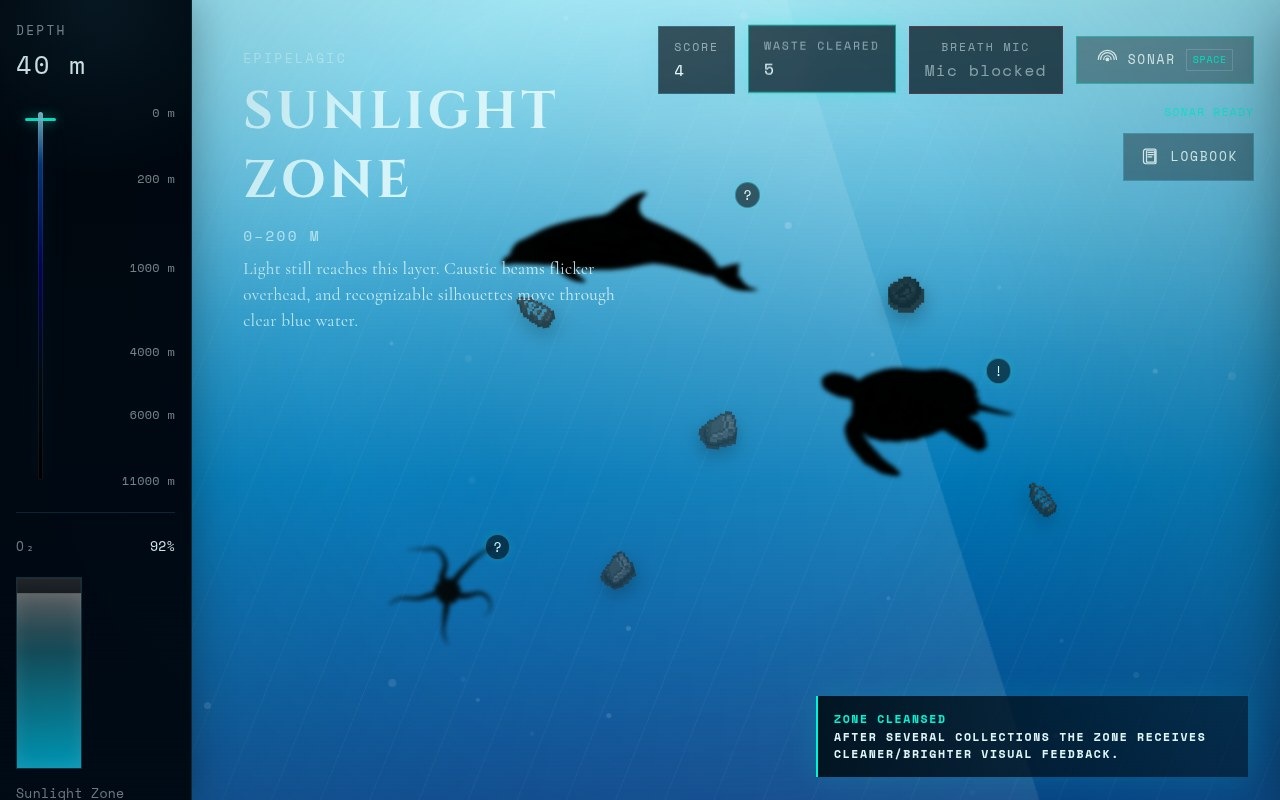
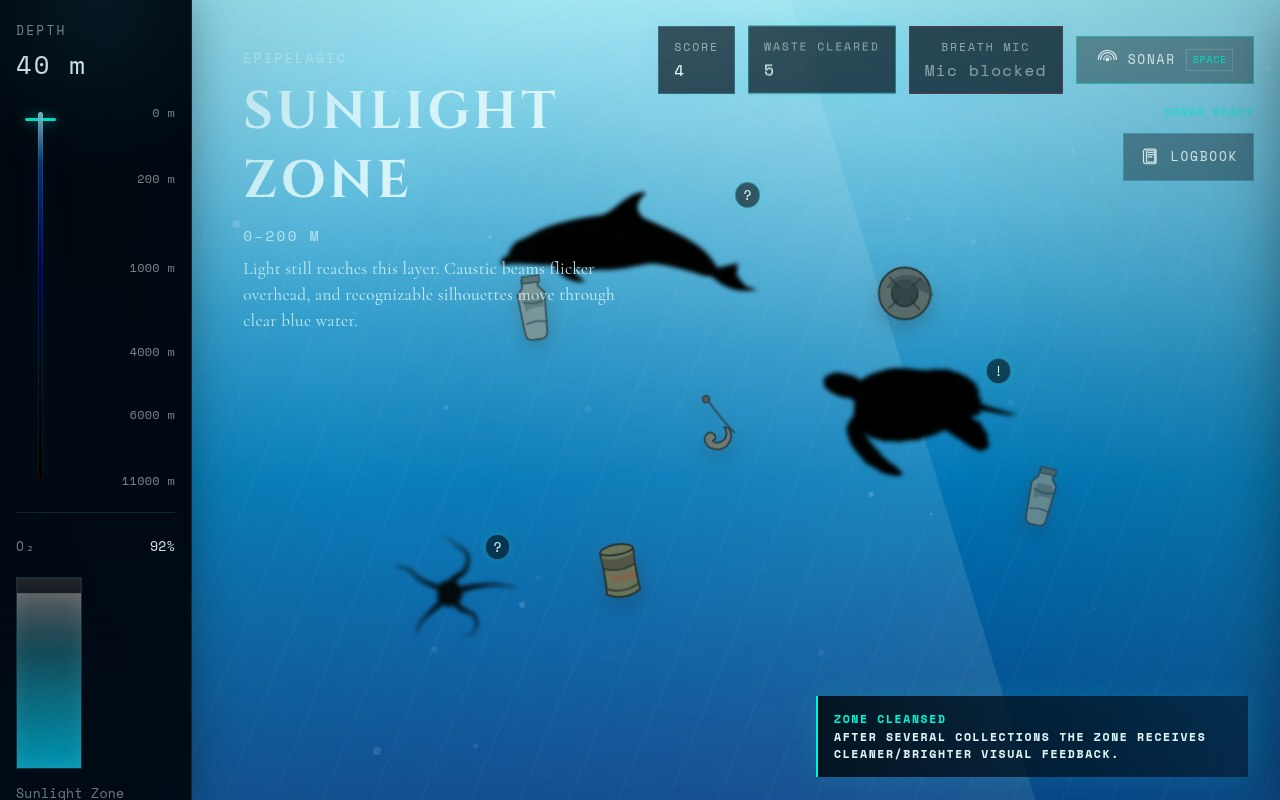
fix: replace broken pollution sprites

diff --git a/app.js b/app.js
@@ -10,7 +10,7 @@ const zoneData = [
       "Light still reaches this layer. Caustic beams flicker overhead, and recognizable silhouettes move through clear blue water.",
     particleType: "surface",
     particleCount: 34,
-    pollutionTypes: ["bottle", "takeout-box", "tire", "line"],
+    pollutionTypes: ["bottle", "bottle", "tire", "gear"],
     oxygenDrainMultiplier: 0.72,
   },
   {
@@ -24,7 +24,7 @@ const zoneData = [
       "The glow from above begins to fail. Bioluminescent sparks appear, and each reveal feels like turning on a light in the dark.",
     particleType: "bio",
     particleCount: 36,
-    pollutionTypes: ["gear", "tire", "line"],
+    pollutionTypes: ["gear", "tire", "bottle"],
     oxygenDrainMultiplier: 0.94,
   },
   {
@@ -52,7 +52,7 @@ const zoneData = [
       "Marine snow drifts through a pressure-crushed quiet. The scene is almost empty until a hidden body turns and catches the dark.",
     particleType: "snow",
     particleCount: 54,
-    pollutionTypes: ["debris", "microplastics"],
+    pollutionTypes: ["drum", "microplastics"],
     oxygenDrainMultiplier: 1.42,
   },
   {
@@ -66,7 +66,7 @@ const zoneData = [
       "The trench is a void. The instrument stack strains, the oxygen alarm never settles, and life appears only as a ghostly interruption of the black.",
     particleType: "snow",
     particleCount: 32,
-    pollutionTypes: ["container", "microplastics"],
+    pollutionTypes: ["drum", "microplastics"],
     oxygenDrainMultiplier: 1.86,
   },
 ];
@@ -343,36 +343,23 @@ const creatureData = [
 
 const pollutionPalette = {
   bottle: { main: "#8d9188", shade: "#5d625d", line: "#343a36", alpha: 0.76 },
-  "takeout-box": { main: "#878a80", shade: "#5b5d55", line: "#30332e", alpha: 0.76 },
-  tire: { main: "#383b35", shade: "#20241f", line: "#111410", alpha: 0.78 },
-  line: { main: "#726d63", shade: "#4c4a45", line: "#2e302e", alpha: 0.72 },
-  gear: { main: "#6d7069", shade: "#464941", line: "#252924", alpha: 0.78 },
-  drum: { main: "#6f7047", shade: "#4c3f2d", line: "#27281d", rust: "#8a4f34", alpha: 0.82 },
-  microplastics: { main: "#898b82", shade: "#63665e", line: "#3f443d", alpha: 0.68 },
-  debris: { main: "#676759", shade: "#48483e", line: "#262820", rust: "#76523a", alpha: 0.8 },
-  container: { main: "#5e5f4c", shade: "#3f4034", line: "#20231d", rust: "#7a4632", alpha: 0.76 },
-};
-
-const pollutionSpritePaths = {
-  bottle: "assets/pollution/bottle2idle.png",
-  "takeout-box": "assets/pollution/boxidle.png",
-  tire: "assets/pollution/tireidle.png",
-  gear: "assets/pollution/fishing-hook.png",
+  tire: { main: "#5d625b", shade: "#373d38", line: "#202620", alpha: 0.88 },
+  gear: { main: "#7a7768", shade: "#565247", line: "#2e302b", alpha: 0.88 },
+  drum: { main: "#76734d", shade: "#4e422f", line: "#28291f", rust: "#9a5b3a", alpha: 0.9 },
+  microplastics: { main: "#9fa39a", shade: "#73786f", line: "#4a5048", alpha: 0.86 },
 };
 
 const pollutionZoneSettings = {
-  sunlight: { initial: 8, respawn: 360, duration: [8.5, 12.5], size: [3.2, 5.0], drift: [-10, 14] },
-  twilight: { initial: 5, respawn: 680, duration: [12.5, 17.5], size: [3.4, 5.4], drift: [-14, 10] },
-  midnight: { initial: 3, respawn: 1200, duration: [17.5, 24], size: [3.0, 4.8], drift: [-8, 8] },
-  abyssal: { initial: 2, respawn: 1800, duration: [24, 32], size: [2.6, 4.4], drift: [-5, 5] },
-  hadal: { initial: 2, respawn: 2400, duration: [30, 40], size: [2.4, 4.2], drift: [-3, 3] },
+  sunlight: { initial: 8, respawn: 420, duration: [10, 14], size: [3.8, 5.4], drift: [-8, 10] },
+  twilight: { initial: 5, respawn: 760, duration: [14, 19], size: [3.6, 5.0], drift: [-9, 8] },
+  midnight: { initial: 3, respawn: 1300, duration: [19, 26], size: [3.2, 4.6], drift: [-5, 5] },
+  abyssal: { initial: 2, respawn: 1900, duration: [26, 34], size: [2.9, 4.2], drift: [-3, 3] },
+  hadal: { initial: 2, respawn: 2500, duration: [32, 42], size: [2.8, 4.0], drift: [-2, 2] },
 };
 
 const pollutionTypeSettings = {
-  bottle: { sizeBoost: 1.05 },
-  "takeout-box": { sizeBoost: 1.08 },
-  tire: { sizeBoost: 1.02 },
-  line: { sizeBoost: 1.1 },
+  bottle: { sizeBoost: 0.92 },
+  tire: { sizeBoost: 1.05 },
   gear: { sizeBoost: 0.95 },
   drum: { sizeBoost: 1.1 },
   microplastics: { sizeBoost: 0.72 },
@@ -2050,10 +2037,6 @@ function createParticles(zoneEl, zone) {
 }
 
 function pollutionAsset(type) {
-  const spritePath = pollutionSpritePaths[type];
-  if (spritePath) {
-    return `<span class="pollution-item__sprite" style="--sprite-url:url('${spritePath}')" aria-hidden="true"></span>`;
-  }
   return pollutionSvg(type);
 }
 
@@ -2067,13 +2050,11 @@ function pollutionSvg(type) {
     `--trash-alpha:${color.alpha}`,
   ].join(";");
   const svgs = {
-    bottle: `<svg class="trash-illustration trash-bottle" viewBox="0 0 64 64" style="${palette}" aria-hidden="true"><path class="trash-fill" d="M26 6h12v7l5 6-2 35c-.2 3.6-2.7 5.8-6.2 5.8h-7.4c-3.5 0-5.9-2.2-6.1-5.8L19 19l5-6V6h2Z"/><path class="trash-shade" d="M27 16h11.5l3.1 4.4-.5 8.8c-5.9-1.2-11.1-.4-15.8 2.5l-.7-11.1L27 16Z"/><path class="trash-cap" d="M25 3.8h14v5.4H25z"/><path class="trash-line" d="M23.5 24.5c6.7 2.8 12.7 2.8 18.1.1M24.1 43.8c5.2-1.8 10.6-1.9 16.4-.2"/></svg>`,
-    line: `<svg class="trash-illustration trash-line-tangle" viewBox="0 0 64 64" style="${palette}" aria-hidden="true"><path class="trash-rope" d="M8.5 18.5c11.8 8.8 23.5 7.8 46.8-1.8M10.2 49.7c11.2-18.7 31.5-18.1 44.7.8M8.4 34.5c18.6-13.5 30.2 17.9 47.8-2.9M17 15c8 9.5 6.7 22.9-4.3 34.2"/><circle class="trash-knot" cx="17" cy="18" r="3.3"/><circle class="trash-knot" cx="49" cy="49" r="3.1"/></svg>`,
-    gear: `<svg class="trash-illustration trash-gear" viewBox="0 0 64 64" style="${palette}" aria-hidden="true"><path class="trash-fill" d="M30.2 7.5h4.3l3.6 7 5.8 1.8 6.7-3 4.5 5-3.4 6.6 2 5.6 6.7 3.7v5.5l-6.9 3.2-2.3 5.8 3.2 6.7-4.8 4.5-6.5-3.5-6 2.2-3.4 6.8h-4.4l-3.3-6.9-5.8-2-6.7 3.1-4.6-5 3.4-6.4-2.1-5.9-6.6-3.5v-5.5l6.7-3.4 2-5.8-3.1-6.6 4.9-4.6 6.3 3.3 6.2-2 3.5-6.7Z"/><circle class="trash-hole" cx="32" cy="34" r="8.2"/><path class="trash-line" d="M32 19v6M32 43v6M17 34h6M41 34h6"/></svg>`,
+    bottle: `<svg class="trash-illustration trash-bottle" viewBox="0 0 64 64" style="${palette}" aria-hidden="true"><path class="trash-fill" d="M27 6h11v7l5 6-2.2 34c-.3 3.9-2.7 6-6.3 6h-6.7c-3.6 0-6-2.1-6.3-6L19.3 19l5-6V6H27Z"/><path class="trash-shade" d="M26.4 19h12.4l2.2 4.2-.5 8.3c-5.9-1.3-11.3-.4-16 2.5l-.6-10.7 2.5-4.3Z"/><path class="trash-cap" d="M25 3.5h15v5.8H25z"/><path class="trash-line" d="M23.5 25.5c6.9 2.7 13 2.7 18.4 0M24.2 44.5c5.3-1.7 10.9-1.8 16.5-.1"/></svg>`,
+    tire: `<svg class="trash-illustration trash-tire" viewBox="0 0 64 64" style="${palette}" aria-hidden="true"><circle class="trash-fill" cx="32" cy="32" r="22"/><circle class="trash-hole" cx="32" cy="32" r="11"/><path class="trash-shade" d="M16 28c4.8-9.8 14.2-14 26.1-10.7 8.2 2.3 13.2 8.8 14 16.6-10-6.5-23.7-8.2-40.1-5.9Z"/><path class="trash-line" d="M19 19 27 27M45 19l-8 8M19 45l8-8M45 45l-8-8"/></svg>`,
+    gear: `<svg class="trash-illustration trash-hook" viewBox="0 0 64 64" style="${palette}" aria-hidden="true"><path class="trash-rope" d="M19 8c8.8 9.5 18.3 18.5 28.8 26.7"/><path class="trash-fill" d="M42.5 31.5c3.8 5 4.1 10.7.7 15.7-4.4 6.5-14.8 7-19.5.9-2.4-3.2-2.2-7.5.7-9.3 2.6-1.7 6-.8 7.1 2 .7 1.7-.4 3.5-2 4.1 2.4 2.4 7.7 1.5 10.2-2.2 2.2-3.4 1.7-7.8-1.4-11.5l4.2.3Z"/><circle class="trash-knot" cx="18.2" cy="8.4" r="3.2"/></svg>`,
     drum: `<svg class="trash-illustration trash-drum" viewBox="0 0 64 64" style="${palette}" aria-hidden="true"><ellipse class="trash-fill" cx="32" cy="13.5" rx="15" ry="6"/><path class="trash-fill" d="M17 13.5c1.1 7.9 1.1 28.9 0 36.2 8 6 22 6 30 0-1.1-7.3-1.1-28.3 0-36.2-7.9 4.2-22.1 4.2-30 0Z"/><path class="trash-shade" d="M18.3 17.7c7.7 3.4 19.7 3.3 27.5-.2l.4 9.7c-7.6 4.5-19.1 4.4-28.3.2l.4-9.7Z"/><path class="trash-rust" d="M22.5 33.5c8.7 1.8 14.8 1.6 22.4-.5l.3 5.8c-7.8 2.2-14.7 2.3-23.2.4l.5-5.7Z"/><path class="trash-line" d="M18.4 27.2c8.9 3.9 18.2 3.8 27.3 0M18.2 45.3c8.5 4.2 18.1 4.2 27.7 0"/></svg>`,
-    microplastics: `<svg class="trash-illustration trash-microplastics" viewBox="0 0 64 64" style="${palette}" aria-hidden="true"><circle class="trash-dot" cx="15" cy="18" r="2.8"/><circle class="trash-dot shade" cx="28" cy="12" r="1.7"/><circle class="trash-dot" cx="45" cy="19" r="2.4"/><circle class="trash-dot shade" cx="53" cy="32" r="1.8"/><circle class="trash-dot" cx="35" cy="34" r="2.6"/><circle class="trash-dot shade" cx="19" cy="43" r="2.1"/><circle class="trash-dot" cx="44" cy="50" r="2.9"/><circle class="trash-dot shade" cx="28" cy="54" r="1.5"/><circle class="trash-dot" cx="11" cy="32" r="1.6"/></svg>`,
-    debris: `<svg class="trash-illustration trash-debris" viewBox="0 0 64 64" style="${palette}" aria-hidden="true"><path class="trash-fill" d="M8.8 43.2 21.8 10l14 21.4 20.1-13.5-7.2 37.4H14.2l-5.4-12.1Z"/><path class="trash-shade" d="M21.9 15.4 33.6 34 16.5 49.6l-5.4-7.8 10.8-26.4Z"/><path class="trash-rust" d="m35.6 32 12.8-8.5-2.8 14.3c-4.6.1-7.8-1.8-10-5.8Z"/><path class="trash-line" d="M22 10 14.3 55M36 31.4l11.8 23.1M20.2 43.3 50 18.9"/></svg>`,
-    container: `<svg class="trash-illustration trash-container" viewBox="0 0 64 64" style="${palette}" aria-hidden="true"><path class="trash-fill" d="M9.5 21.8c13.9-3.1 29.2-3.1 45.1.1v26.5c-14.9 3.4-29.9 3.3-45.1-.2V21.8Z"/><path class="trash-shade" d="M11.9 24.8c12.5 2.8 25.9 2.8 40.2 0v8.9c-13.8 3.9-27.3 3.9-40.2.1v-9Z"/><path class="trash-rust" d="M18.8 38.5c8.5 2.8 16.7 2.9 24.6.4l1.5 8.2c-8.1 1.7-16.4 1.6-24.7-.2l-1.4-8.4Z"/><path class="trash-line" d="M19.5 21.1v28.7M32 20.7v29.7M44.6 21.1v28.7M10.2 32.6c14.8 3.6 29.4 3.6 43.9.1"/></svg>`,
+    microplastics: `<svg class="trash-illustration trash-microplastics" viewBox="0 0 64 64" style="${palette}" aria-hidden="true"><circle class="trash-dot" cx="15" cy="18" r="3"/><circle class="trash-dot shade" cx="28" cy="12" r="2"/><circle class="trash-dot" cx="45" cy="19" r="2.7"/><circle class="trash-dot shade" cx="53" cy="32" r="2"/><circle class="trash-dot" cx="35" cy="34" r="2.8"/><circle class="trash-dot shade" cx="19" cy="43" r="2.4"/><circle class="trash-dot" cx="44" cy="50" r="3"/><circle class="trash-dot shade" cx="28" cy="54" r="1.9"/><circle class="trash-dot" cx="11" cy="32" r="2"/></svg>`,
   };
   return svgs[type] || svgs.bottle;
 }

diff --git a/styles.css b/styles.css
@@ -1361,53 +1361,10 @@ body.is-transitioning #zone-stage {
 }
 
 .pollution-item svg,
-.pollution-item__img,
-.pollution-item__sprite {
+.pollution-item__img {
   width: 100%;
   height: 100%;
   pointer-events: none;
-}
-
-.pollution-item__sprite {
-  display: block;
-  background-image: var(--sprite-url);
-  background-repeat: no-repeat;
-  background-position: 0 0;
-  background-size: 400% 100%;
-  image-rendering: pixelated;
-  filter:
-    saturate(0.2)
-    brightness(0.5)
-    contrast(0.9)
-    hue-rotate(180deg)
-    drop-shadow(0 7px 9px rgba(0, 0, 0, 0.34));
-  opacity: 0.74;
-  transform: rotate(-2deg);
-  animation: pollution-sprite-idle 720ms steps(4) infinite;
-  will-change: background-position, transform, opacity;
-}
-
-.pollution-item[data-type="tire"] .pollution-item__sprite {
-  filter:
-    saturate(0.15)
-    brightness(0.46)
-    contrast(1.05)
-    hue-rotate(170deg)
-    drop-shadow(0 7px 9px rgba(0, 0, 0, 0.38));
-}
-
-.pollution-item[data-type="takeout-box"] .pollution-item__sprite {
-  opacity: 0.68;
-}
-
-.pollution-item[data-type="gear"] .pollution-item__sprite {
-  filter:
-    saturate(0.18)
-    brightness(0.58)
-    contrast(0.95)
-    hue-rotate(165deg)
-    drop-shadow(0 7px 9px rgba(0, 0, 0, 0.34));
-  opacity: 0.78;
 }
 
 .pollution-item__img {
@@ -1421,10 +1378,12 @@ body.is-transitioning #zone-stage {
   overflow: visible;
   stroke-linecap: round;
   stroke-linejoin: round;
-  filter: drop-shadow(0 7px 9px rgba(0, 0, 0, 0.32));
-  opacity: var(--trash-alpha, 0.72);
+  filter:
+    drop-shadow(0 7px 9px rgba(0, 0, 0, 0.28))
+    drop-shadow(0 0 8px rgba(255, 255, 255, 0.08));
+  opacity: var(--trash-alpha, 0.88);
   transform-origin: center;
-  will-change: transform, opacity;
+  will-change: opacity;
 }
 
 .trash-fill {
@@ -1482,10 +1441,6 @@ body.is-transitioning #zone-stage {
   opacity: 0.58;
 }
 
-.pollution-item[data-type="line"] svg {
-  animation: trash-line-undulate 4.8s ease-in-out infinite;
-}
-
 .pollution-item[data-type="microplastics"] svg {
   filter: drop-shadow(0 4px 7px rgba(0, 0, 0, 0.24));
 }
@@ -1517,16 +1472,6 @@ body.is-transitioning #zone-stage {
 .pollution-item:hover .pollution-item__img,
 .pollution-item:focus-visible .pollution-item__img {
   filter: drop-shadow(0 9px 11px rgba(0, 0, 0, 0.38)) brightness(1.14);
-}
-
-.pollution-item:hover .pollution-item__sprite,
-.pollution-item:focus-visible .pollution-item__sprite {
-  filter:
-    saturate(0.24)
-    brightness(0.64)
-    contrast(0.94)
-    hue-rotate(180deg)
-    drop-shadow(0 9px 11px rgba(0, 0, 0, 0.38));
 }
 
 .pollution-item:hover .pollution-item__tag,
@@ -2251,25 +2196,6 @@ body.is-transitioning #zone-stage {
   100% {
     opacity: 0;
     transform: translate3d(0, -1rem, 0) scale(1.4);
-  }
-}
-
-@keyframes pollution-sprite-idle {
-  0% {
-    background-position: 0 0;
-  }
-  100% {
-    background-position: 100% 0;
-  }
-}
-
-@keyframes trash-line-undulate {
-  0%,
-  100% {
-    transform: rotate(-2deg) scaleX(1);
-  }
-  50% {
-    transform: rotate(3deg) scaleX(1.05);
   }
 }
 

diff --git a/scripts/capture_feature_screenshots.py b/scripts/capture_feature_screenshots.py
@@ -313,17 +313,17 @@ HELPER_JS = """
       clearZonePollution(zoneId);
       if (zoneId === 'sunlight') {
         this.trash(zoneId, 'bottle', '28%', '34%', '4.6rem', '-8deg');
-        this.trash(zoneId, 'takeout-box', '45%', '49%', '4.8rem', '8deg');
+        this.trash(zoneId, 'gear', '45%', '49%', '4.4rem', '8deg');
         this.trash(zoneId, 'tire', '62%', '32%', '4.7rem', '2deg');
         this.trash(zoneId, 'bottle', '75%', '58%', '4.2rem', '13deg');
-        this.trash(zoneId, 'takeout-box', '36%', '67%', '4.3rem', '-14deg');
+        this.trash(zoneId, 'drum', '36%', '67%', '4.5rem', '-10deg');
         return;
       }
       this.trash(zoneId, 'gear', '30%', '34%', '4.2rem', '8deg');
-      this.trash(zoneId, 'line', '48%', '47%', '4.2rem', '-18deg');
+      this.trash(zoneId, 'bottle', '48%', '47%', '4.2rem', '-12deg');
       this.trash(zoneId, 'tire', '64%', '30%', '4.6rem', '2deg');
       this.trash(zoneId, 'gear', '76%', '57%', '4.2rem', '-10deg');
-      this.trash(zoneId, 'line', '37%', '66%', '3.8rem', '16deg');
+      this.trash(zoneId, 'drum', '37%', '66%', '4.2rem', '8deg');
     },
 
     openCreature(creatureId) {
@@ -556,7 +556,7 @@ def capture(session: ChromeSession) -> None:
     session.eval(
         "__proof.zone('sunlight', 92);"
         "__proof.addTrashSet('sunlight');"
-        "__proof.note('<strong>DRIFTING CLEANUP TARGETS</strong><br>CC0 floating-trash sprites are desaturated into murky ocean debris.');"
+        "__proof.note('<strong>DRIFTING CLEANUP TARGETS</strong><br>Static illustrated debris stays readable and matches the ocean scene.');"
     )
     session.screenshot("05-pollution-cleanup/01-drifting-trash-targets-visible.jpg")
 

diff --git a/README.md b/README.md
@@ -43,16 +43,14 @@ http://127.0.0.1:4173/
 - Automatic flashlight cursor in Midnight, Abyssal, and Hadal zones
 - Progressive mobile tilt support for spotlight movement and zone navigation
 - Giant squid background pass in the Twilight Zone with a local NOAA hydrophone cue; the actual Giant Squid discovery remains in Midnight
-- Pollution collection loop with a small static set of filtered trash sprites plus minimal dark deep-zone debris, visible cleanup feedback, and zone mood response
+- Pollution collection loop with a small static set of readable illustrated pollutants, visible cleanup feedback, and zone mood response
 - Wrong-answer learning flow with correct-answer feedback, second attempt, and assisted logbook state
 - Logbook, creature detail panel, assisted IDs, and rarity filters
 - Tuned O2 economy with faster drain under deeper pressure and smaller assisted refill values
 - Normalized 100-point scoring across discovery, cleanup, streak, accuracy, and zone completion
 - Results screen with final rank, score stats, sonar usage, and zone-by-zone breakdown
 - Local art assets flattened into `assets/`
-- Surface pollution sprites from OpenGameArt's CC0 Trash Trawler / Pixel Art Lake Assets pack, filtered into a muted underwater palette
-- Lost fishing gear sprite from OpenGameArt's Fishing Game Assets Pixel Art pack, filtered and credited under OGA-BY 3.0
-- Minimal inline SVG pollution for deep-zone drum, microplastic cluster, mining debris, and waste container
+- Minimal inline SVG pollution set: bottle, tire, hook, drum, and microplastic cluster
 - Local audio assets in `assets/audio/`; active ambience is generated with Web Audio, and the squid easter egg uses a local NOAA cue so the demo is offline-safe and does not stream sound files at runtime
 
 ## Quick checklist
@@ -87,5 +85,3 @@ Breath mic requires `localhost` or HTTPS. If the HUD shows `Tap retry` or `Mic b
 
 - `assets/audio/sperm_whale_clicks.ogg`: "Sperm Whale Ordinary Clicks" from Wikimedia Commons, CC0.
 - `assets/audio/noaa_bloop.wav`, `assets/audio/noaa_calving.wav`, `assets/audio/noaa_tremor.wav`, `assets/audio/noaa_julia.wav`: NOAA PMEL Acoustics public sound examples.
-- `assets/pollution/bottle2idle.png`, `assets/pollution/boxidle.png`, `assets/pollution/tireidle.png`: Pixel Art Lake Assets / Trash Trawler by AmberFallStudio on OpenGameArt, CC0.
-- `assets/pollution/fishing-hook.png`: Fishing Game Assets Pixel Art by CraftPix.net 2D Game Assets on OpenGameArt, OGA-BY 3.0.

diff --git a/docs/feature-screenshots/README.md b/docs/feature-screenshots/README.md
@@ -16,7 +16,7 @@ These screenshots were captured from the running browser app at `1280x800`. Each
 ## Verification Notes
 
 - Sonar screenshots show only creature/lifeform returns; pollution is not highlighted by sonar.
-- Pollution screenshots use desaturated Trash Trawler sprites for visible surface debris, a credited fishing-hook sprite for lost gear, and include a visible waste counter increment from a click.
+- Pollution screenshots use static illustrated debris and include a visible waste counter increment from a click.
 - Wrong-answer screenshots show the educational second-chance flow instead of removing the creature.
 - Results screenshots show the score breakdown judges may not reach during a short demo.
 
